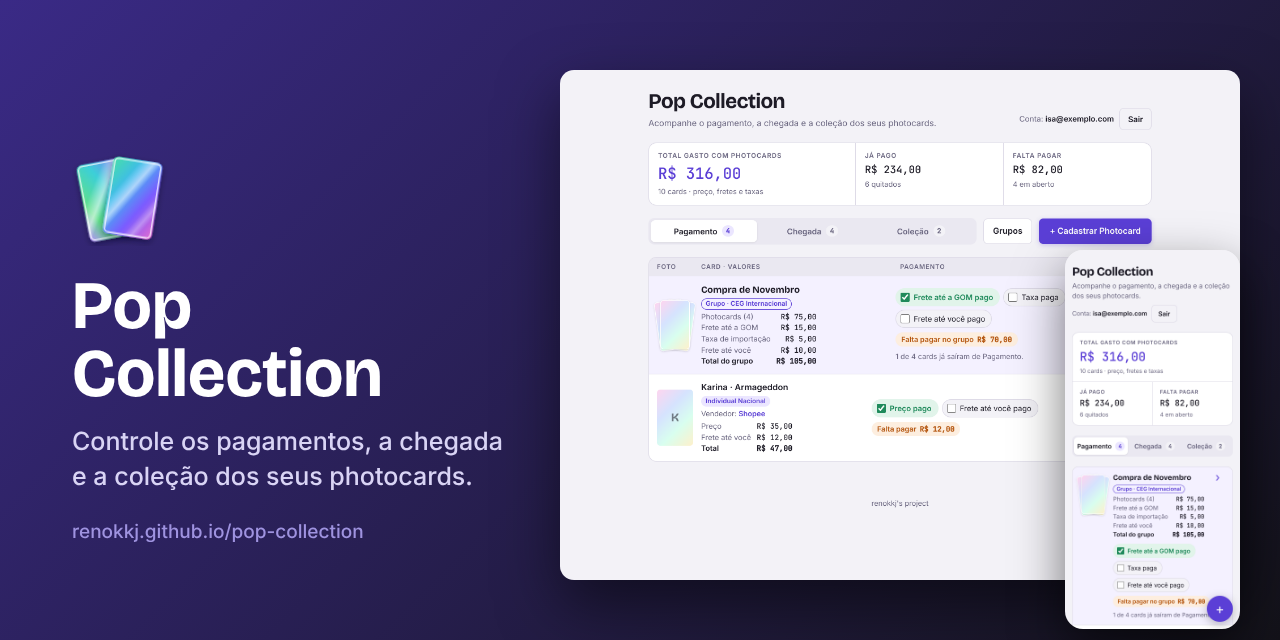
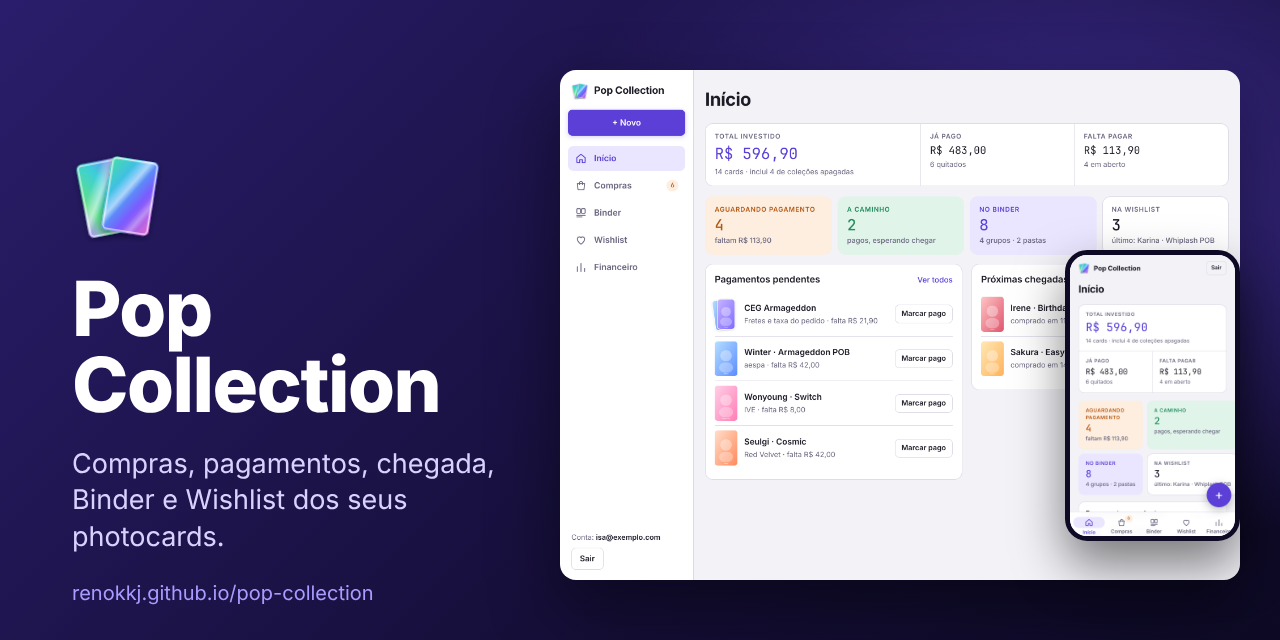
Atualiza README, telas e descrição do site
- Capturas novas: Compras, página do pedido, Wishlist e pedido no celular
- Financeiro com os gráficos atuais e nova imagem de compartilhamento
- Descrição nova no login, no link compartilhado e no manifest

diff --git a/index.html b/index.html
@@ -4,17 +4,17 @@
 <meta charset="utf-8">
 <meta name="viewport" content="width=device-width, initial-scale=1, viewport-fit=cover">
 <title>Pop Collection</title>
-<meta name="description" content="Controle as compras, os pagamentos, a chegada e a coleção dos seus photocards.">
+<meta name="description" content="Controle as compras, os pagamentos, a chegada, a coleção e a wishlist dos seus photocards.">
 <meta name="theme-color" content="#f3f2f7">
 <meta property="og:type" content="website">
 <meta property="og:locale" content="pt_BR">
 <meta property="og:title" content="Pop Collection">
-<meta property="og:description" content="Controle os pagamentos, a chegada e a coleção dos seus photocards.">
+<meta property="og:description" content="Controle as compras, os pagamentos, a chegada, a coleção e a wishlist dos seus photocards.">
 <meta property="og:url" content="https://renokkj.github.io/pop-collection/">
 <meta property="og:image" content="https://renokkj.github.io/pop-collection/docs/social-preview.png">
 <meta property="og:image:width" content="1280">
 <meta property="og:image:height" content="640">
-<meta property="og:image:alt" content="Pop Collection: tela do app no computador e no celular">
+<meta property="og:image:alt" content="Pop Collection: tela inicial do app no computador e no celular">
 <meta name="twitter:card" content="summary_large_image">
 <link rel="icon" href="icons/logo.svg" type="image/svg+xml">
 <link rel="icon" href="icons/favicon-32.png" sizes="32x32" type="image/png">
@@ -34,7 +34,7 @@
     <div class="cards-deco" aria-hidden="true"><span></span><span></span><span></span></div>
     <div>
       <h1>Pop Collection</h1>
-      <p>Controle o pagamento, a chegada e a coleção dos seus photocards.</p>
+      <p>Controle as compras, os pagamentos, a chegada, a coleção e a wishlist dos seus photocards.</p>
     </div>
     <nav class="tabs" role="tablist">
       <button type="button" role="tab" data-mode="login" aria-selected="true">Entrar</button>

diff --git a/README.md b/README.md
@@ -91,12 +91,19 @@ flowchart LR
 
 <table>
   <tr>
-    <td width="50%"><img src="docs/binder.png" alt="Binder no computador com pastas e grade de fotos"><br><sub><b>Binder:</b> pastas no topo, busca, filtro por grupo e a grade só com as fotos.</sub></td>
-    <td width="50%"><img src="docs/financeiro.png" alt="Financeiro com a divisão do gasto e o gráfico dos últimos 12 meses"><br><sub><b>Financeiro:</b> para onde vai o dinheiro e o gasto dos últimos 12 meses.</sub></td>
+    <td width="50%"><img src="docs/compras.png" alt="Compras com as abas Pagamento, Chegada e Concluídas"><br><sub><b>Compras:</b> as abas Pagamento, Chegada e Concluídas, com busca e filtros.</sub></td>
+    <td width="50%"><img src="docs/pedido.png" alt="Página de um pedido com os fretes e os cards comprados juntos"><br><sub><b>Pedido:</b> fretes e taxa uma vez só, registrar ou trazer cards e tirar do pedido.</sub></td>
   </tr>
   <tr>
-    <td width="50%"><img src="docs/cadastro-compra.png" alt="Janela de registrar compra"><br><sub><b>Registrar compra:</b> categoria, pedido, datas, pasta no Binder e os dados de cada card.</sub></td>
-    <td width="50%" align="center"><img src="docs/celular-binder.png" alt="Binder no celular" width="44%">&nbsp;<img src="docs/celular-adquiri.png" alt="Card da Wishlist com as opções de Adquiri este photocard" width="44%"><br><sub><b>Celular:</b> o Binder e o "Adquiri este photocard" da Wishlist.</sub></td>
+    <td width="50%"><img src="docs/binder.png" alt="Binder no computador com pastas e grade de fotos"><br><sub><b>Binder:</b> pastas no topo, busca, filtro por grupo e a grade só com as fotos.</sub></td>
+    <td width="50%"><img src="docs/wishlist.png" alt="Wishlist com pastas e os cards desejados"><br><sub><b>Wishlist:</b> os cards que você quer ter, com pastas próprias.</sub></td>
+  </tr>
+  <tr>
+    <td width="50%"><img src="docs/financeiro.png" alt="Financeiro com a divisão do gasto e o gráfico dos últimos 12 meses"><br><sub><b>Financeiro:</b> para onde vai o dinheiro e o gasto dos últimos 12 meses.</sub></td>
+    <td width="50%"><img src="docs/cadastro-compra.png" alt="Janela de registrar compra"><br><sub><b>Registrar compra:</b> categoria, pedido, data da compra, pasta no Binder e os dados de cada card.</sub></td>
+  </tr>
+  <tr>
+    <td colspan="2" align="center"><img src="docs/celular-binder.png" alt="Binder no celular" width="24%">&nbsp;<img src="docs/celular-adquiri.png" alt="Card da Wishlist com as opções de Adquiri este photocard" width="24%">&nbsp;<img src="docs/celular-pedido.png" alt="Página do pedido no celular" width="24%"><br><sub><b>Celular:</b> o Binder, o "Adquiri este photocard" da Wishlist e a página de um pedido.</sub></td>
   </tr>
 </table>
 
